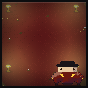
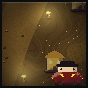
11o: návrh map – stavebnice umí koberce, mozaiky, koleje, památky a řady; mapy Zlaté říše předělané (město, mincovna, síň soch, pokladnice, trůnní sál)
Claude-Session: https://claude.ai/code/session_01C3g9eZa8rEMHcb6P6wfMxv

diff --git a/game.js b/game.js
@@ -562,7 +562,7 @@ const C8G=['#4e6e24','#5a7a2a','#668a30','#729838','#7ea640','#8ab24a'],C8W=['#1
   C8P=['#a8844a','#b49052','#c09c5c','#cca866'],C8Z=['#b8962a','#c8a630','#d8b638','#e6c644'],C8B=[['#3e5a1a','#f6e27a'],['#4a6a20','#ff9ab8']];
 // chapter IX the Golden Realm (11n): streets paved with gold, deep red carpets and walls, gold tiles; everything the sun looked at is gold
 const C9G=['#4a3614','#564018','#624a1c','#6e5420','#7a5e26','#86682c'],C9W=['#1a0808','#2a0e0c','#3a1410','#4a1a14'],C9T=['#6e5420','#7a5e26','#86682c','#927232'],
-  C9P=['#5a1410','#6a1814','#7a1e18','#88261e'],C9Z=['#9a7418','#b48a22','#cca230','#e2bc44'],C9B=[['#3a2a10','#f6d460'],['#4a3412','#ffffff']];
+  C9P=['#5a1410','#6a1814','#7a1e18','#88261e'],C9S=['#7a5a20','#866426','#92702c','#9e7a32'],C9R=['#5a1008','#8a1a10','#d8a830','#ffd040'],C9Z=['#9a7418','#b48a22','#cca230','#e2bc44'],C9B=[['#3a2a10','#f6d460'],['#4a3412','#ffffff']];
 const MAPS={
  hrbitov:{name:_t('Zapomněný hřbitov'),desc:_t('Ze hrobů lezou slizy a kostlivci. Přežij 4 minuty a sejmi Krále slizů.'),dur:240,size:900,seed:11,style:'gk',grade:'#ffa860',gradeA:.28,dark:.34,amb:'#120a1c',ambient:'firefly',patch:['#33443a','#25312b','#3b4a3c'],pebble:['#4a5550','#6f7a74'],flower:['#c869e0','#e8e4d4','#f6c744'],
   c1:'#2d3b35',c2:'#2a3731',specks:['#3a4d42','#243029','#33463b'],tuft:'#46634a',wall:'#1b1f24',wallHi:'#2b3038',
@@ -772,38 +772,53 @@ const MAPS={
   events:[{t:80,type:'ring',e:'firefly',n:26},{t:150,type:'ring',e:'beetle',n:18},{t:220,type:'ring',e:'sunfl',n:14},{t:300,type:'ring',e:'firefly',n:30},{t:380,type:'ring',e:'scarecrow',n:18}]},
  // ----- chapter IX: the Golden Realm (11n, chapter kit, a WALL chapter) – the city the sun looked at first; the Herald finally names Aurel -----
  predmesti:{name:_t('Pozlacené předměstí'),desc:_t('Ulice, na které slunce pohlédlo jako první. Všechno je ze zlata a nad domy pluje <b>zářící oko</b>. <b>Kdo v jeho světle zůstane, zezlátne a zkamení</b>, nepřátelé v něm zezlátnou taky: jsou odolnější, ale nechají víc zkušeností. Vydrž 5:30 a poraz Lichváře.'),dur:330,size:1000,seed:503,style:'kit',grade:'#ffd27a',gradeA:.16,dark:.15,amb:'#2a1a06',ambient:'mote',c1:'#6e5420',
-  speedMul:1,base:1,boss:'usurer',pools:0,kit:{ground:C9G,wall:C9W,path:C9P,accent:['#7a5a1c','#866424'],layout:'paths',paths:5,pathW:24,bits:C9B,spark:'#ffe27a',shadow:'#1a0808',
-   camp:{k:'c9_lamp',light:{r:44,col:'#ffe27a',a:.6}},props:[{k:'c9_house',n:16,tall:1,r:90},{k:['c9_coins','c9_vase'],n:70,r:20,light:{r:18,col:'#ffd27a',a:.3},lightEvery:6},{k:'c9_lamp',n:14,tall:1,r:80,light:{r:30,col:'#ffe27a',a:.5}}],
-   mech:[{id:'gaze',r:56,spd:24,full:2.4,from:12,dmg:2,pct:.07,col:'#ffd040',tip:_t('Oko slunce! Nezůstávej v jeho světle.')}]},
+  speedMul:1,base:1,boss:'usurer',pools:0,kit:{ground:C9G,wall:C9W,path:C9S,accent:['#7a5a1c','#866424'],layout:'paths',paths:4,pathW:36,pathTurn:.22,plaza:78,bits:C9B,spark:'#ffe27a',shadow:'#1a0808',
+   decor:[{d:'mosaic',r:66,pal:['#5a1008','#8a1a10','#d8a830','#ffd040'],rays:20},{d:'scatter',n:420,pal:['#ffd040','#e0b030','#c8962a'],sz:1}],
+   set:[{k:'c9_fountain',x:0,y:-108,light:{r:40,col:'#bfe8ff',a:.4}}],
+   rows:[{k:'c9_house',along:'path',step:52,gap:30,skip:120,r:24},{k:'c9_lamp',along:'path',step:78,gap:8,skip:140,r:14,light:{r:30,col:'#ffe27a',a:.55}},
+     {k:['c9_house','c9_house','c9_gtree','c9_stall'],fill:{step:62,jit:12,out:170},r:26}],
+   camp:{k:'c9_lamp',light:{r:44,col:'#ffe27a',a:.6}},props:[{k:['c9_coins','c9_vase','c9_crate'],n:60,r:16,light:{r:18,col:'#ffd27a',a:.3},lightEvery:6}],mech:[{id:'gaze',r:56,spd:24,full:2.4,from:12,dmg:2,pct:.07,col:'#ffd040',tip:_t('Oko slunce! Nezůstávej v jeho světle.')}]},
   spawns:[{e:'gilded',from:0,w:4},{e:'taxman',from:0,w:3},{e:'alchem',from:0,w:2},{e:'mimic',from:1,w:2},{e:'mummy',from:1,w:2},{e:'golem',from:3,w:1}],
   elites:[{t:60,e:'gilded'},{t:130,e:'taxman'},{t:200,e:'golem'},{t:270,e:'gilded'}],
   events:[{t:90,type:'ring',e:'taxman',n:20},{t:170,type:'ring',e:'gilded',n:16},{t:250,type:'ring',e:'mimic',n:18}]},
  mincovna:{name:_t('Mincovna'),desc:_t('Tady se razí zlato pro celou říši. <b>Obří lisy dupou v pruzích na takt</b>: takt předem se pruh rozsvítí, pak udeří. Bolí to tebe, ale nepřátele <b>rozdrtí</b>, tak je tam nalákej. Vydrž 5:30 a poraz Mincmistra.'),dur:330,size:1000,seed:509,style:'kit',grade:'#ffc86a',gradeA:.16,dark:.2,amb:'#2a1406',ambient:'ember',c1:'#5a4a3a',
-  speedMul:1,base:1,boss:'mintmaster',pools:0,kit:{ground:C9G,wall:C9W,path:C9P,tile:C9T,layout:'plaza',R:210,bits:C9B,spark:'#ffe27a',shadow:'#1a0808',
-   camp:{k:'c9_lamp',light:{r:44,col:'#ffe27a',a:.6}},props:[{k:'c9_press',n:10,at:'ring',ring:250,tall:1},{k:['c9_coins','c9_stack'],n:80,r:18,light:{r:16,col:'#ffd27a',a:.3},lightEvery:6},{k:'c9_column',n:12,tall:1,r:80,at:'edge'}],
-   mech:[{id:'press',every:2,from:20,n:2,w:28,dmg:2,pct:.08,edmg:140,col:'#ff9a3a',tip:_t('Lis! Uhni z rozsvíceného pruhu.')}]},
+  speedMul:1,base:1,boss:'mintmaster',pools:0,kit:{ground:C9G,wall:C9W,tile:C9T,tileS:24,layout:'plaza',R:460,bits:C9B,spark:'#ffe27a',shadow:'#1a0808',
+   decor:[{d:'rails',x1:-440,y1:-110,x2:440,y2:-110,pal:['#c8c8d0','#4a3018']},{d:'rails',x1:-440,y1:110,x2:440,y2:110,pal:['#c8c8d0','#4a3018']},{d:'rails',x1:-110,y1:-440,x2:-110,y2:440,pal:['#c8c8d0','#4a3018']},{d:'rails',x1:110,y1:-440,x2:110,y2:440,pal:['#c8c8d0','#4a3018']},
+     {d:'stripes',x:0,y:-300,w:200,h:60,pal:['#e8401a']},{d:'stripes',x:0,y:300,w:200,h:60,pal:['#e8401a']},{d:'mosaic',r:56,pal:['#3a2408','#8a6214','#d8a830','#ffd040'],rays:12},{d:'trim',pal:['#2a1a10','#ffd040']}],
+   rows:[{k:'c9_press',line:[-170,-150,170,-150],step:85,r:30},{k:'c9_press',line:[-170,150,170,150],step:85,r:30},{k:['c9_crate','c9_stack','c9_coins'],line:[-150,-70,-150,70],step:28,mirror:1,r:12},
+     {k:'c9_furnace',line:[-380,-380,-380,380],step:130,mirror:1,r:30,light:{r:40,col:'#ff8a3a',a:.6}},
+     {k:['c9_press','c9_crate','c9_stack','c9_crate','c9_coins'],fill:{step:74,jit:10,box:200},r:26}],
+   camp:{k:'c9_lamp',light:{r:44,col:'#ffe27a',a:.6}},props:[{k:['c9_coins','c9_stack'],n:40,r:16,light:{r:16,col:'#ffd27a',a:.3},lightEvery:6}],mech:[{id:'press',every:2,from:20,n:2,w:28,dmg:2,pct:.08,edmg:140,col:'#ff9a3a',tip:_t('Lis! Uhni z rozsvíceného pruhu.')}]},
   spawns:[{e:'gilded',from:0,w:3},{e:'mimic',from:0,w:3},{e:'taxman',from:0,w:3},{e:'alchem',from:1,w:2},{e:'golem',from:1,w:2},{e:'imp',from:2,w:1}],
   elites:[{t:60,e:'mimic'},{t:130,e:'gilded'},{t:200,e:'golem'},{t:270,e:'mimic'}],
   events:[{t:90,type:'ring',e:'mimic',n:16},{t:170,type:'ring',e:'taxman',n:22},{t:250,type:'ring',e:'gilded',n:18}]},
  sochy:{name:_t('Síň soch'),desc:_t('Obyvatelé města stojí ve dvoraně jako zlaté sochy. <b>Každé čtyři takty ty nejbližší ožijí</b> a kdo do nich udeří, probudí je hned. Rozbij je dřív, než vstanou. Vydrž 6 minut a poraz Zlatého rytíře.'),dur:360,size:1000,seed:521,style:'kit',grade:'#ffe27a',gradeA:.16,dark:.25,amb:'#1a0c06',ambient:'mote',c1:'#7a5e26',
-  speedMul:1,base:1,boss:'gknight',pools:0,kit:{ground:C9G,wall:C9W,path:C9P,tile:C9T,layout:'plaza',R:230,bits:C9B,spark:'#ffe27a',shadow:'#1a0808',
-   camp:{k:'c9_lamp',light:{r:44,col:'#ffe27a',a:.6}},props:[{k:'c9_column',n:16,at:'ring',ring:262,tall:1,light:{r:24,col:'#ffd27a',a:.4}},{k:['c9_coins','c9_vase'],n:60,r:20}],
-   mech:[{id:'statues',n:20,every:4,k:2,wake:220,col:'#ffd040',tip:_t('Sochy ožívají! Rozbij je, než vstanou.')}]},
+  speedMul:1,base:1,boss:'gknight',pools:0,kit:{ground:C9G,wall:C9W,tile:C9T,tileS:28,layout:'plaza',R:460,bits:C9B,spark:'#ffe27a',shadow:'#1a0808',
+   decor:[{d:'rug',x:0,y:0,w:52,h:900,pal:['#5a1008','#8a1a10','#d8a830','#ffd040']},{d:'rug',x:0,y:0,w:900,h:40,pal:['#5a1008','#8a1a10','#d8a830','#ffd040']},{d:'mosaic',r:60,pal:['#5a1008','#8a1a10','#d8a830','#ffd040'],rays:16},{d:'trim',pal:['#2a1a10','#ffd040']}],
+   rows:[{k:'c9_plinth',line:[-62,-420,-62,-60],step:50,mirror:1,r:14},{k:'c9_plinth',line:[-62,60,-62,420],step:50,mirror:1,r:14},
+     {k:'c9_candle',line:[-120,-400,-120,400],step:100,mirror:1,r:14,light:{r:34,col:'#ffe27a',a:.6}},
+     {k:'c9_column',fill:{step:96,jit:0,out:150},r:30,light:{r:22,col:'#ffd27a',a:.25},lightEvery:3}],
+   camp:{k:'c9_lamp',light:{r:44,col:'#ffe27a',a:.6}},props:[{k:['c9_vase','c9_coins','c9_crown','c9_plinth'],n:50,r:24}],mech:[{id:'statues',n:20,every:4,k:2,wake:220,col:'#ffd040',tip:_t('Sochy ožívají! Rozbij je, než vstanou.')}]},
   spawns:[{e:'gilded',from:0,w:4},{e:'alchem',from:0,w:3},{e:'taxman',from:0,w:2},{e:'skeleton',from:1,w:2},{e:'mimic',from:2,w:1},{e:'golem',from:3,w:1}],
   elites:[{t:60,e:'gilded'},{t:130,e:'alchem'},{t:200,e:'golem'},{t:270,e:'gilded'},{t:330,e:'mimic'}],
   events:[{t:90,type:'ring',e:'gilded',n:18},{t:170,type:'ring',e:'alchem',n:12},{t:260,type:'ring',e:'taxman',n:22},{t:320,type:'ring',e:'gilded',n:22}]},
  pokladnice:{name:_t('Pokladnice'),desc:_t('Hromady zlata až ke stropu. <b>Sebraný poklad ti přidá sílu do konce běhu</b>, ale <b>probudí mimiky</b> a nad pokladem spí drak, který je s každou ztrátou vzteklejší. Kolik uneseš? Vydrž 6 minut a poraz Draka Zlatohlava.'),dur:360,size:1000,seed:547,style:'kit',grade:'#ffd27a',gradeA:.18,dark:.3,amb:'#1a0a04',ambient:'mote',c1:'#86682c',
   speedMul:1,base:1,boss:'dragon',pools:0,kit:{ground:C9G,wall:C9W,accent:['#8a6a24','#96742c'],layout:'open',bits:C9B,spark:'#ffe27a',shadow:'#1a0808',
-   zone:{pal:C9Z,thr:.55,cells:140},
-   camp:{k:'c9_lamp',light:{r:44,col:'#ffe27a',a:.6}},props:[{k:['c9_coins','c9_stack','c9_vase'],n:110,r:16,light:{r:16,col:'#ffd27a',a:.3},lightEvery:5},{k:'c9_chest',n:12,r:90,tall:1}],
-   mech:[{id:'greed',n:5,mim:3,re:25,buff:.05,max:6,col:'#ffd040',tip:_t('Poklad! Sílí tě, ale budí mimiky.')}]},
+   zone:{pal:C9Z,thr:.5,cells:150},decor:[{d:'scatter',n:900,pal:['#ffd040','#e0b030','#e8401a','#5ab8e8'],sz:1}],
+   set:[{k:'c9_hoard',x:0,y:-260,light:{r:50,col:'#ffd040',a:.5}},{k:'c9_hoard',x:-240,y:170,light:{r:50,col:'#ffd040',a:.5}},{k:'c9_hoard',x:240,y:150,light:{r:50,col:'#ffd040',a:.5}}],
+   rows:[{k:['c9_chest','c9_crown','c9_gems'],arc:{x:0,y:-260,r:56,n:9},r:10},{k:['c9_chest','c9_gems'],arc:{x:-240,y:170,r:52,n:7},r:10},{k:['c9_chest','c9_crown'],arc:{x:240,y:150,r:52,n:7},r:10},
+     {k:['c9_hoard','c9_coins','c9_stack','c9_gems'],fill:{step:54,jit:16,out:110},inzone:1,r:20},{k:['c9_chest','c9_vase','c9_stack','c9_crown'],fill:{step:80,jit:20,out:120,p:.6},r:30}],
+   camp:{k:'c9_lamp',light:{r:44,col:'#ffe27a',a:.6}},props:[{k:['c9_coins','c9_stack','c9_vase','c9_gems'],n:80,r:16,light:{r:16,col:'#ffd27a',a:.3},lightEvery:5}],mech:[{id:'greed',n:5,mim:3,re:25,buff:.05,max:6,col:'#ffd040',tip:_t('Poklad! Sílí tě, ale budí mimiky.')}]},
   spawns:[{e:'mimic',from:0,w:4},{e:'taxman',from:0,w:3},{e:'gilded',from:0,w:3},{e:'alchem',from:1,w:2},{e:'scorp',from:1,w:2},{e:'golem',from:3,w:1}],
   elites:[{t:60,e:'mimic'},{t:130,e:'taxman'},{t:200,e:'golem'},{t:270,e:'mimic'},{t:330,e:'gilded'}],
   events:[{t:90,type:'ring',e:'mimic',n:18},{t:170,type:'ring',e:'taxman',n:24},{t:260,type:'ring',e:'gilded',n:20},{t:320,type:'ring',e:'mimic',n:24}]},
  dvur:{name:_t('Zlatý dvůr'),desc:_t('Finále kapitoly. Ve zlatém trůnním sále čeká Herold, služebník toho, kdo se dívá ze slunce. Arénou pluje <b>oko slunce</b> a <b>sochy dvořanů ožívají</b>. Herold ti konečně řekne, komu jsi celou dobu nosil střepy. Vydrž 7 minut.'),dur:420,size:940,seed:563,style:'kit',grade:'#ffd27a',gradeA:.2,dark:.2,amb:'#1a0a04',ambient:'mote',c1:'#8a6a24',finale:1,
   speedMul:1,base:1,boss:'herald',pools:0,kit:{ground:C9G,wall:C9W,tile:C9T,layout:'arena',R:300,bits:C9B,spark:'#ffe27a',shadow:'#1a0808',
-   props:[{k:'c9_column',n:14,at:'ring',ring:322,tall:1,light:{r:28,col:'#ffd27a',a:.5}},{k:['c9_coins','c9_vase','c9_stack'],n:50,at:'edge',r:24}],
-   mech:[{id:'gaze',r:52,spd:22,full:2.6,from:40,dmg:2,pct:.07,col:'#ffd040',tip:_t('Oko slunce! Nezůstávej v jeho světle.')},{id:'statues',n:12,every:5,k:2,wake:200,col:'#ffd040',tip:_t('Sochy ožívají! Rozbij je, než vstanou.')},{id:'strike',from:99999,col:'#ffd27a'}]},
+   decor:[{d:'mosaic',r:120,pal:['#5a1008','#8a1a10','#d8a830','#ffd040'],rays:24},{d:'rug',x:0,y:-212,w:46,h:170,pal:['#5a1008','#8a1a10','#d8a830','#ffd040']},{d:'rug',x:0,y:212,w:46,h:170,pal:['#5a1008','#8a1a10','#d8a830','#ffd040']},{d:'trim',pal:['#2a1a10','#ffd040']}],
+   set:[{k:'c9_throne',x:0,y:-282,light:{r:56,col:'#ffe27a',a:.6}}],
+   rows:[{k:'c9_banner',arc:{r:286,n:14,a0:-1.2,a1:4.34},r:20},{k:'c9_candle',arc:{r:250,n:10},r:16,light:{r:34,col:'#ffe27a',a:.6}},
+     {k:['c9_column','c9_column','c9_plinth','c9_gtree'],fill:{step:84,jit:8,out:340},r:30}],
+   props:[{k:['c9_coins','c9_vase','c9_stack'],n:40,at:'edge',r:24}],mech:[{id:'gaze',r:52,spd:22,full:2.6,from:40,dmg:2,pct:.07,col:'#ffd040',tip:_t('Oko slunce! Nezůstávej v jeho světle.')},{id:'statues',n:12,every:5,k:2,wake:200,col:'#ffd040',tip:_t('Sochy ožívají! Rozbij je, než vstanou.')},{id:'strike',from:99999,col:'#ffd27a'}]},
   spawns:[{e:'gilded',from:0,w:4},{e:'taxman',from:0,w:3},{e:'alchem',from:0,w:2},{e:'mimic',from:1,w:2},{e:'starimp',from:1,w:2},{e:'golem',from:3,w:1}],
   elites:[{t:50,e:'gilded'},{t:110,e:'mimic'},{t:170,e:'alchem'},{t:230,e:'golem'},{t:290,e:'gilded'},{t:350,e:'mimic'},{t:400,e:'golem'}],
   events:[{t:80,type:'ring',e:'taxman',n:24},{t:150,type:'ring',e:'gilded',n:18},{t:220,type:'ring',e:'alchem',n:14},{t:300,type:'ring',e:'mimic',n:22},{t:380,type:'ring',e:'gilded',n:24}]},
@@ -3352,7 +3367,7 @@ function fitApp(){try{const sa=window.navigator.standalone===true||matchMedia('(
   let h=Math.max(window.innerHeight||0,document.documentElement.clientHeight||0);
   if(sa&&(/iPhone|iPad|iPod/.test(navigator.userAgent||'')||(navigator.platform==='MacIntel'&&navigator.maxTouchPoints>1))){const land=(window.innerWidth||0)>(window.innerHeight||0);h=Math.max(h,land?Math.min(screen.width,screen.height):Math.max(screen.width,screen.height));}
   document.documentElement.style.setProperty('--appH',h+'px');document.documentElement.style.setProperty('--kw',Math.min(360,Math.floor(((window.innerWidth||360)-16)/2)*2)+'px');fitApp.info={sa,h,ih:window.innerHeight,ch:document.documentElement.clientHeight,sh:screen.height,sw:screen.width};}catch(_){}}
-const GAME_VER='2026-11-11n';
+const GAME_VER='2026-11-11o';
 fitApp();addEventListener('resize',()=>{fitApp();resize();try{if(state==='menu')fitMenuCur();}catch(_){}});addEventListener('orientationchange',()=>setTimeout(()=>{fitApp();resize();},250));
 
 /* ============ state ============ */
@@ -4807,7 +4822,7 @@ function songKit(o){const m=o.motif,N=null,P=o.prog||KIT_PROG[o.scale]||KIT_PROG
 function buildKit(id){const def=MAPS[id],K=def.kit,size=def.size,rng=mulberry32(def.seed),C=size/2,H=c=>c.map(hex2rgb);
   const BASE=H(K.ground),PATH=K.path?H(K.path):null,ACC=K.accent?H(K.accent):null,TILE=K.tile?H(K.tile):null,ZONE=K.zone?H(K.zone.pal):null,
     WL=H(K.wall||['#14141c','#1c1c26','#262630','#30303a']),SPK=K.spark?hex2rgb(K.spark):null,TB=12*Z,lay=K.layout||'paths',R=K.R||(lay==='arena'?300:150);
-  let pm=null;if(PATH)pm=pathMask(size,mg=>{const n=K.paths||4;for(let i=0;i<n;i++)curvePath(mg,wander(rng,C,C,i/n*6.283+rng()*.6,30,26,.7,size),K.pathW||24);mg.beginPath();mg.arc(C,C,K.plaza||56,0,6.283);mg.fill();});
+  let pm=null;const PP=[];if(PATH)pm=pathMask(size,mg=>{const n=K.paths||4;for(let i=0;i<n;i++){const pts=wander(rng,C,C,i/n*6.283+rng()*.6,30,26,K.pathTurn||.7,size);PP.push(pts);curvePath(mg,pts,K.pathW||24);}mg.beginPath();mg.arc(C,C,K.plaza||56,0,6.283);mg.fill();});
   const tiled=(x,y)=>TILE&&(lay==='plaza'?Math.abs(x-C)<R&&Math.abs(y-C)<R:lay==='arena'?Math.hypot(x-C,y-C)<R:false);
   let zone=null;if(ZONE){const N=noiseField(size,size,K.zone.cells||120,rng),th=K.zone.thr||.62;zone=new Uint8Array(size*size);
     for(let y=0;y<size;y++)for(let x=0;x<size;x++){const i=y*size+x;if(N[i]>th&&Math.hypot(x-C,y-C)>90&&!(pm&&pm(x,y)>.4)&&!tiled(x,y))zone[i]=1;}}
@@ -4828,6 +4843,19 @@ function buildKit(id){const def=MAPS[id],K=def.kit,size=def.size,rng=mulberry32(
   const shadowAt=(x,y,rx,ry,a)=>{g.globalAlpha=a;g.fillStyle=K.shadow||'#0a0814';g.beginPath();g.ellipse(x*Z,y*Z,rx*Z,ry*Z,0,0,6.283);g.fill();g.globalAlpha=1;};
   const put=(k,x,y,tall,sh)=>{const s=typeof k==='string'?kitSprite(k):k;if(sh!==0)shadowAt(x+s.w*.1,y-.5,s.w*.46,Math.max(1.4,s.h*.08),sh||.3);props.push({isProp:true,x,y,spr:s,tall:!!tall});return s;};
   const lit=(L,x,y)=>{if(L)lights.push({x,y:y-(L.dy||6),r:L.r||40,col:L.col||'#ffd27a',a:L.a||.7});};
+  // 11o: decor painted into the ground (rugs, mosaics, rails, trims, scatter), set pieces at exact spots, rows of props along paths/lines/arcs
+  for(const D of K.decor||[])kitDecor(g,D,{C,R,lay,size,pm,inZ,rng,K});
+  for(const S of K.set||[]){const x=C+(S.x||0),y=C+(S.y||0);put(S.k,x,y,S.tall!==false,S.sh);lit(S.light,x,y);}
+  for(const W of K.rows||[]){const ks=[].concat(W.k),spots=[];
+    if(W.along==='path'){for(const pts of PP){let acc=0,last=null;for(let i=1;i<pts.length;i++){const [x0,y0]=pts[i-1],[x1,y1]=pts[i],L=Math.hypot(x1-x0,y1-y0)||1,nx=-(y1-y0)/L,ny=(x1-x0)/L;
+        for(let s=0;s<L;s+=4){acc+=4;const px=x0+(x1-x0)*s/L,py=y0+(y1-y0)*s/L;if(Math.hypot(px-C,py-C)<(W.skip||100))continue;if(last!==null&&acc-last<(W.step||60))continue;last=acc;
+          const off=(K.pathW||24)/2+(W.gap||20);for(const sd of W.side===1?[1]:W.side===-1?[-1]:[1,-1])spots.push([px+nx*off*sd,py+ny*off*sd]);}}}}
+    else if(W.line){const [x1,y1,x2,y2]=W.line,L=Math.hypot(x2-x1,y2-y1),n=Math.max(1,Math.floor(L/(W.step||50)));for(let i=0;i<=n;i++){const x=C+x1+(x2-x1)*i/n,y=C+y1+(y2-y1)*i/n;spots.push([x,y]);if(W.mirror)spots.push([2*C-x,y]);}}
+    else if(W.arc){const A=W.arc,n=A.n||8;for(let i=0;i<n;i++){const a=(A.a0||0)+((A.a1==null?6.283:A.a1)-(A.a0||0))*(n>1&&A.a1!=null?i/(n-1):i/n);spots.push([C+(A.x||0)+Math.cos(a)*A.r,C+(A.y||0)+Math.sin(a)*A.r*(A.sq||1)]);}}
+    else if(W.fill){const F=W.fill,st=F.step||70,j=F.jit||16;for(let y=st/2;y<size;y+=st)for(let x=st/2;x<size;x+=st){const px=x+(rng()-.5)*2*j,py=y+(rng()-.5)*2*j,d=Math.hypot(px-C,py-C);
+        if(d<(F.out||0)||(F.in&&d>F.in))continue;if(F.box&&Math.abs(px-C)<F.box&&Math.abs(py-C)<F.box)continue;if(F.p&&rng()>F.p)continue;spots.push([px,py]);}}
+    const pk=W.fill?()=>ks[(rng()*ks.length)|0]:i=>ks[i%ks.length];
+    spots.forEach(([x,y],i)=>{if(x<30||y<30||x>size-30||y>size-30)return;if(W.inzone?!inZ(x,y):inZ(x,y))return;if((W.along==='path'||W.fill)&&pm&&pm(x,y)>.3)return;if(!free(x,y,W.r||18))return;put(pk(i),x,y,W.tall!==false,W.sh);if(W.light&&(!W.lightEvery||i%W.lightEvery===0))lit(W.light,x,y);});}
   // the camp around the start
   if(K.camp)for(const [dx,dy] of [[-34,-30],[34,-30],[-34,30],[34,30]]){put(K.camp.k,C+dx,C+dy,K.camp.tall!==false,.3);lit(K.camp.light,C+dx,C+dy);}
   // props: at = any | ring (circle of radius ring) | edge (near the wall) | zone (inside the special ground) | path (on the paths)
@@ -4839,6 +4867,26 @@ function buildKit(id){const def=MAPS[id],K=def.kit,size=def.size,rng=mulberry32(
       put(ks[(rng()*ks.length)|0],x,y,!!P.tall,P.sh);if(P.light&&(!P.lightEvery||k%P.lightEvery===0))lit(P.light,x,y);k++;}}
   return{canvas:G.c,pools:[],def,props,lights:lights.slice(0,64),zone};}
 MAP_BUILD.kit=id=>buildKit(id);
+// 11o: ground decor for the chapter kit (painted once into the map canvas, free at run time). Coordinates are relative to the map centre.
+// rug {x,y,w,h,pal:[edge,fill,motif]} | mosaic {x,y,r,pal:[4],rays} | rails {x1,y1,x2,y2,pal:[rail,tie]} | trim {pal:[a,b]} (edge of plaza/arena)
+// | scatter {n,pal,sz} (glints outside paths) | stripes {x,y,w,h,pal:[a,b],step} (hazard / work lanes)
+// kit.rows: {k, along:'path',step,gap,skip} | {k, line:[x1,y1,x2,y2],step,mirror} | {k, arc:{x,y,r,n,a0,a1}} | {k, fill:{step,jit,out,in,box,p}, inzone} (grid fill = districts)
+// kit.set: [{k,x,y,light}] landmarks at exact spots. Order: decor → set → rows → camp → random props (later ones avoid earlier ones).
+function kitDecor(g,D,o){const {C,R,lay,size,pm,inZ,rng}=o,P=D.pal||['#5a1410','#7a1e18','#d8b444','#e2ba48'],fr=(x,y,w,h,c)=>{g.fillStyle=c;g.fillRect(Math.round(x*Z),Math.round(y*Z),Math.max(1,Math.round(w*Z)),Math.max(1,Math.round(h*Z)));};
+  if(D.d==='rug'){const x=C+(D.x||0)-D.w/2,y=C+(D.y||0)-D.h/2;fr(x,y,D.w,D.h,P[0]);fr(x+2,y+2,D.w-4,D.h-4,P[1]);
+    g.fillStyle=P[2];for(let i=0;i<D.w;i+=1/Z){fr(x+i,y+4,.5,.5,P[2]);fr(x+i,y+D.h-4.5,.5,.5,P[2]);}for(let j=0;j<D.h;j+=1/Z){fr(x+4,y+j,.5,.5,P[2]);fr(x+D.w-4.5,y+j,.5,.5,P[2]);}
+    const st=D.step||14;for(let yy=y+10;yy<y+D.h-10;yy+=st)for(let xx=x+10;xx<x+D.w-10;xx+=st){fr(xx,yy-1,1,1,P[2]);fr(xx-1,yy,3,1,P[2]);fr(xx,yy+1,1,1,P[2]);}}
+  else if(D.d==='mosaic'){const cx=C+(D.x||0),cy=C+(D.y||0),r=D.r||60,n=D.rays||16;g.save();g.translate(cx*Z,cy*Z);g.scale(Z,Z);
+    const ring=(rr,w,c)=>{g.strokeStyle=c;g.lineWidth=w;g.beginPath();g.arc(0,0,rr,0,6.283);g.stroke();};
+    g.globalAlpha=.85;ring(r,3,P[0]);ring(r-5,1,P[2]);for(let i=0;i<n;i++){const a=i/n*6.283;g.fillStyle=i%2?P[1]:P[2];g.beginPath();g.moveTo(Math.cos(a-.08)*r*.38,Math.sin(a-.08)*r*.38);g.lineTo(Math.cos(a)*(r-7),Math.sin(a)*(r-7));g.lineTo(Math.cos(a+.08)*r*.38,Math.sin(a+.08)*r*.38);g.fill();}
+    g.fillStyle=P[3]||P[2];g.beginPath();g.arc(0,0,r*.34,0,6.283);g.fill();ring(r*.34,2,P[0]);g.fillStyle=P[0];g.beginPath();g.arc(0,0,r*.14,0,6.283);g.fill();g.globalAlpha=1;g.restore();}
+  else if(D.d==='rails'){const x1=C+D.x1,y1=C+D.y1,x2=C+D.x2,y2=C+D.y2,L=Math.hypot(x2-x1,y2-y1),ux=(x2-x1)/L,uy=(y2-y1)/L,nx=-uy,ny=ux;
+    for(let s=0;s<L;s+=6){const x=x1+ux*s,y=y1+uy*s;for(let k=-5;k<=5;k+=.5)fr(x+nx*k,y+ny*k,1.2,1.2,P[1]);}
+    for(let s=0;s<L;s+=.5){const x=x1+ux*s,y=y1+uy*s;fr(x+nx*3.5,y+ny*3.5,.8,.8,P[0]);fr(x-nx*3.5,y-ny*3.5,.8,.8,P[0]);}}
+  else if(D.d==='stripes'){const x=C+(D.x||0)-D.w/2,y=C+(D.y||0)-D.h/2,st=D.step||8;for(let yy=0;yy<D.h;yy+=.5)for(let xx=0;xx<D.w;xx+=.5)if(((xx+yy)/st|0)%2===0&&(xx<3||yy<3||xx>D.w-3||yy>D.h-3))fr(x+xx,y+yy,.5,.5,P[0]);}
+  else if(D.d==='trim'){if(lay==='plaza'){for(const s of [-1,1]){for(let t=-R;t<=R;t+=.5){fr(C+t,C+s*R,.5,1,P[0]);fr(C+s*R,C+t,1,.5,P[0]);if(((t+R)|0)%10<1){fr(C+t,C+s*(R-4),1.5,1.5,P[1]);fr(C+s*(R-4),C+t,1.5,1.5,P[1]);}}}}
+    else{for(let j=0;j<720;j++){const a=j/720*6.283;fr(C+Math.cos(a)*(R-5),C+Math.sin(a)*(R-5),.6,.6,P[0]);if(j%24===0)fr(C+Math.cos(a)*(R-10)-1,C+Math.sin(a)*(R-10)-1,2,2,P[1]);}}}
+  else if(D.d==='scatter'){for(let i=0;i<(D.n||200);i++){const x=20+rng()*(size-40),y=20+rng()*(size-40);if(inZ(x,y)||(pm&&pm(x,y)>.3))continue;const c=P[(rng()*P.length)|0];fr(x,y,D.sz||1,D.sz||1,c);if(rng()<.3)fr(x+1,y-1,.5,.5,'#ffffff');}}}
 
 // ----- map mechanics: pick one (or none) per map in kit.mech; every one is host-simulated and synced to the co-op guest -----
 const kitM=()=>(run&&run.map&&run.map.kit&&run.map.kit.mech)||[];
@@ -5260,6 +5308,17 @@ Object.assign(KIT_PROPS,{
  c9_press:{big:1,mirror:false,rows:['kkkkkkk','.k.k.k.','.ksssk.','.ksssk.','..sss..','..sss..','yyyyyyy','yyYYYyy','bbbbbbb'],pal:{k:'#3a2a20',s:'#9a9aa8',y:'#c8962a',Y:'#ffe27a',b:'#2a1a10'}},
  c9_column:{big:1,mirror:false,rows:['yyyyy','.rrr.','.ryr.','.ryr.','.ryr.','.ryr.','.ryr.','.ryr.','yyyyy','bbbbb'],pal:{y:'#d8b444',r:'#7a1e18',b:'#3a1410'}},
  c9_chest:{mirror:false,rows:['.nnnnn.','nnnnnnn','yyyyyyy','nnnynnn','nbbybbn','nbbbbbn'],pal:{n:'#8a5a2a',y:'#e0b030',b:'#5a3a1a'}},
+ c9_fountain:{big:1,mirror:false,rows:['.....w.....','....wbw....','.....w.....','....yyy....','...yyyyy...','..ywwwwwy..','.ybbwbbwby.','yyyyyyyyyyy','.yaaaaaaay.','..yyyyyyy..'],pal:{w:'#e8f8ff',b:'#5ab8e8',y:'#d8a830',a:'#8a6214'}},
+ c9_stall:{big:1,mirror:false,rows:['rryyrryyr','rryyrryyr','.k.....k.','.k.....k.','.k.....k.','yyygyycyy','aaaaaaaaa','.a.....a.'],pal:{r:'#a8201a',y:'#ffd040',k:'#5a3a14',g:'#5aa83a',c:'#e8401a',a:'#7a5a2a'}},
+ c9_gtree:{big:1,mirror:false,rows:['...yYy...','..yYyYy..','.yYyyyYy.','yYyYyYyYy','.yyYyyYy.','..yyYyy..','....a....','....a....','...aaa...'],pal:{y:'#d8a830',Y:'#ffe27a',a:'#8a6214'}},
+ c9_furnace:{big:1,mirror:false,rows:['..aaaaa..','.abbbbba.','abbbbbbba','abboyobba','abooyooba','abbooobba','aaaaaaaaa','bbbbbbbbb'],pal:{a:'#5a4a3a',b:'#3a2a20',o:'#ff6a1a',y:'#ffd040'}},
+ c9_crate:{mirror:false,rows:['aaaaa','abbba','ababa','abbba','aaaaa'],pal:{a:'#8a6a3a',b:'#5a3e20'}},
+ c9_plinth:{mirror:false,rows:['.yyy.','.aaa.','.aaa.','yyyyy','bbbbb'],pal:{y:'#d8b444',a:'#a8884a',b:'#5a3a14'}},
+ c9_candle:{mirror:false,rows:['y.y.y','o.o.o','k.k.k','kkkkk','..k..','..k..','..k..','.kkk.'],pal:{y:'#fff2c8',o:'#ffd040',k:'#c8962a'}},
+ c9_gems:{mirror:false,rows:['..r..','.rbr.','rgbgr','.ggg.'],pal:{r:'#e8401a',b:'#5ab8e8',g:'#5aa83a'}},
+ c9_crown:{mirror:false,rows:['y.y.y','yryry','yyyyy','.yyy.'],pal:{y:'#ffd040',r:'#e8401a'}},
+ c9_throne:{big:1,mirror:false,rows:['....yyy....','...yyryy...','..yrrrrry..','..yrrrrry..','..yrrrrry..','.yyyyyyyyy.','.yaaaaaaay.','.ya.....ay.','yyyyyyyyyyy','bbbbbbbbbbb'],pal:{y:'#e0b030',r:'#8a1a10',a:'#5a1008',b:'#3a1410'}},
+ c9_banner:{big:1,mirror:false,rows:['kkkkk','.rrr.','.ryr.','.rrr.','.ryr.','.rrr.','.r.r.','..k..','..k..','..k..','.kkk.'],pal:{k:'#8a6214',r:'#8a1a10',y:'#ffd040'}},
  c9_hoard:{big:1,mirror:false,rows:['...y...','..yYy..','.yyyyy.','yyYyyYy','yyyyyyy','.yyyyy.'],pal:{y:'#d8a830',Y:'#ffe27a'}}});
 // gilding: the sun's gaze turns a foe to gold – tougher (+50 % health) but worth more (double XP, a coin now and then)
 const gildSprite=id=>{SPR.gild=SPR.gild||{};if(SPR.gild[id])return SPR.gild[id];const D=ENEMY_DEFS[id],R=['#4a3008','#8a6214','#c8962a','#ffd860'],pal={};
@@ -9532,6 +9591,12 @@ function drawMateArrow(g,ox,oy){const m=coMate();if(!m)return;const cx=m.x+ox,cy
 /* ============ news (what's new popup), install to home screen, result sharing ============ */
 // newest first; v must grow (date + letter). Shown once per new version, all of it under menu "Novinky".
 const NEWS=[
+ {v:'2026-11-11o',d:'11. 11. 2026',t:_t('Zlatá říše dostala tvář'),hl:[
+  {ic:'map:predmesti',t:_t('Předměstí jako město'),d:_t('Dlážděné ulice lemované domy, lucerny, trhy a fontána na náměstí se slunečnou mozaikou.')},
+  {ic:'map:mincovna',t:_t('Mincovna jako dílna'),d:_t('Koleje vozíků, výstražné pruhy, řady lisů, beden a pece podél zdí.')},
+  {ic:'map:sochy',t:_t('Síň soch'),d:_t('Rudé koberce do kříže, uličky podstavců se svícemi a les sloupů.')},
+  {ic:'map:dvur',t:_t('Pokladnice a Zlatý dvůr'),d:_t('Hromady pokladu s truhlami a korunami, trůnní sál s prapory, kruhem svící a trůnem Herolda.')}],
+  items:[_t('Mapy nových kapitol se teď skládají z ulic, řad a památek, ne z náhodně rozházených věcí.')]},
  {v:'2026-11-11n',d:'11. 11. 2026',t:_t('Kapitola IX: Zlatá říše'),hl:[
   {ic:'map:predmesti',t:_t('Kapitola IX: Zlatá říše'),d:_t('Město, na které slunce pohlédlo jako první. Nad <b>Předměstím</b> loví <b>oko slunce</b>, v <b>Mincovně</b> dupou lisy, v <b>Síni soch</b> ožívají dvořané a v <b>Pokladnici</b> si můžeš vzít poklad, když se nebojíš mimiků a draka. Je to <b>zeď</b>, počítej s grindem.')},
   {ic:'boss:herald',t:_t('Herold slunce'),d:_t('Finále na Zlatém dvoře. V půlce souboje ti Herold konečně řekne, <b>komu jsi celou dobu nosil střepy</b>.')},

diff --git a/lang-en.js b/lang-en.js
@@ -1,6 +1,15 @@
 /* English translation. Keys are the exact Czech texts from index.html (_t('…') calls and static HTML).
    When you add or change a Czech text, add/update its line here. Check: node tests/tools/i18n.js */
 window.KRYPTA_EN={
+"Zlatá říše dostala tvář":"The Golden Realm got a face",
+"Předměstí jako město":"Outskirts as a real town",
+"Dlážděné ulice lemované domy, lucerny, trhy a fontána na náměstí se slunečnou mozaikou.":"Cobbled streets lined with houses, lanterns, market stalls and a fountain on a square with a sun mosaic.",
+"Mincovna jako dílna":"The Mint as a workshop",
+"Koleje vozíků, výstražné pruhy, řady lisů, beden a pece podél zdí.":"Cart rails, hazard stripes, rows of presses and crates, furnaces along the walls.",
+"Rudé koberce do kříže, uličky podstavců se svícemi a les sloupů.":"Red carpets in a cross, aisles of plinths with candles and a forest of columns.",
+"Pokladnice a Zlatý dvůr":"Treasury and Golden Court",
+"Hromady pokladu s truhlami a korunami, trůnní sál s prapory, kruhem svící a trůnem Herolda.":"Treasure hoards with chests and crowns, a throne hall with banners, a ring of candles and the Herald's throne.",
+"Mapy nových kapitol se teď skládají z ulic, řad a památek, ne z náhodně rozházených věcí.":"Maps of new chapters are now built from streets, rows and landmarks instead of randomly scattered props.",
 "Kapitoly jako schody":"Chapters as steps",
 "Každá kapitola je schod":"Every chapter is a step",
 "Další kapitola teď vždycky začíná těžší, než končila ta předchozí. <b>Hlubiny jsou zeď</b>: bez Nočních můr v Písečné říši je neprojdeš. Přitvrdila i Ledová říše a Pobřeží.":"Each next chapter now always starts harder than the previous one ended. <b>The Depths are a wall</b>: you won't get through without Nightmares in the Sand Realm. The Ice Realm and the Coast got tougher too.",

diff --git a/tests/tools/mapfull.js b/tests/tools/mapfull.js
@@ -1,0 +1,11 @@
+// 11o: celá mapa stavebnice jako jeden obrázek (zem + rekvizity + světla), na kontrolu rozvržení: node mapfull.js mapa,mapa [prefix]
+const {chromium}=require('playwright');const maps=(process.argv[2]||'predmesti').split(','),pre=process.argv[3]||'/tmp/full';
+(async()=>{const b=await chromium.launch();const p=await (await b.newContext({viewport:{width:600,height:600}})).newPage();const errs=[];p.on('pageerror',e=>errs.push(e.message));
+ await p.goto('file://'+__dirname+'/off.html');await p.waitForTimeout(600);
+ for(const m of maps){const url=await p.evaluate(m=>{const K=window.__krypta;K.save.sound=false;K.save.music=false;K.save.tut=1;K.startRun('knight',m);const R=K.run,B=R.built,sz=R.map.size;
+   const c=document.createElement('canvas');c.width=c.height=sz;const g=c.getContext('2d');g.imageSmoothingEnabled=false;g.drawImage(B.canvas,0,0,sz,sz);
+   for(const L of B.lights||[]){const gr=g.createRadialGradient(L.x,L.y,0,L.x,L.y,L.r);gr.addColorStop(0,L.col+'55');gr.addColorStop(1,L.col+'00');g.fillStyle=gr;g.fillRect(L.x-L.r,L.y-L.r,L.r*2,L.r*2);}
+   const P=(B.props||[]).slice().sort((a,b)=>a.y-b.y);for(const q of P){const s=q.spr;g.drawImage(s.c,Math.round(q.x-s.w/2),Math.round(q.y-s.h),s.w,s.h);}
+   return c.toDataURL();},m);
+  require('fs').writeFileSync(pre+'_'+m+'.png',Buffer.from(url.split(',')[1],'base64'));}
+ console.log('ok',errs.slice(0,3));await b.close();})();

diff --git a/index.html b/index.html
@@ -13,7 +13,7 @@
 <meta name="apple-mobile-web-app-status-bar-style" content="black-translucent">
 <title>Pixel Krypta</title>
 <!-- 09y: fonts are served from the game itself (no Google Fonts → no visitor IP sent to Google; licences in licenses/) -->
-<link rel="stylesheet" href="krypta.css?v=2026-11-11n">
+<link rel="stylesheet" href="krypta.css?v=2026-11-11o">
 </head>
 <body>
 <div id="splash"><img src="icon-192.png" alt=""><b>PIXEL KRYPTA</b><i></i></div>
@@ -330,9 +330,9 @@ window.KRYPTA_ONLINE={url:'https://mpxfppuigwvwlfhsnbgr.supabase.co',key:'sb_pub
 <script>/* 09z7: English texts are downloaded only for English players (same language rule as LANG in game.js) */
 (function(){var l=null;try{l=localStorage.getItem('pixel-krypta-lang');}catch(e){}
 if(l!=='cs'&&l!=='en')l=/^(cs|sk)\b/i.test(String((navigator.languages&&navigator.languages[0])||navigator.language||''))?'cs':'en';
-window.KRYPTA_LANG=l;if(l==='en')document.write('<script src="lang-en.js?v=2026-11-11n"><\/script>');})();
+window.KRYPTA_LANG=l;if(l==='en')document.write('<script src="lang-en.js?v=2026-11-11o"><\/script>');})();
 </script>
-<script src="game.js?v=2026-11-11n"></script>
+<script src="game.js?v=2026-11-11o"></script>
 
 <div id="kHelp" hidden><div class="khcard" data-k="slab" data-m="parch"><div id="kHelpTxt"></div></div></div>
 </body>

diff --git a/.claude/skills/nova-kapitola/SKILL.md b/.claude/skills/nova-kapitola/SKILL.md
@@ -31,6 +31,13 @@ Komunikuj česky. Nejdřív `git fetch` + `git pull --rebase` a přečti `KAMPAN
   `layout`: `paths` (cesty od středu), `plaza` (dlážděný čtverec ±R), `arena` (kruhová aréna R, hodí se na finále), `open`.
   `props`: `{k:'klíč'|['a','b'], n, tall, r (rozestup), sh (stín), at:'any'|'ring'|'edge'|'zone'|'path', ring, sq, light:{r,col,a,dy}, lightEvery}`. `camp`: 4 rekvizity kolem startu.
   `zone`: šumová oblast (`pal`, `thr`, `cells`) – voda, bažina, láva, krystaly… zpomaluje jen s mechanikou `slow`.
+- **Návrh mapy (11o, uživatel: „design mapy je nuda“)** – náhodně rozházené `props` nestačí. Každá mapa má mít **místo s příběhem**: osu, střed, čtvrti, památky. Nástroje (pořadí kreslení: `decor` → `set` → `rows` → `camp` → náhodné `props`):
+  - `decor:[…]` = kresba do země (`kitDecor`): `rug {x,y,w,h,pal:[okraj,výplň,vzor],step}` (koberec/cesta), `mosaic {x,y,r,pal[4],rays}` (rozeta ve středu), `rails {x1,y1,x2,y2,pal}` (koleje), `stripes {x,y,w,h,pal,step}` (výstražné pruhy), `trim {pal}` (lem dlažby nebo arény), `scatter {n,pal,sz}` (drť, mince).
+  - `set:[{k,x,y,light,tall,sh}]` = památky na přesném místě (souřadnice od středu): fontána, trůn, pokladnice.
+  - `rows:[…]` = řady: `along:'path'` (domy podél ulic: `step,gap,side,skip`), `line:[x1,y1,x2,y2]` (+`mirror`), `arc:{x,y,r,n,a0,a1,sq}` (kruh praporů, svíček), `fill:{step,jit,out,in,box,p}` (čtvrť mřížkou, `out` = jen mimo střed), `inzone:1` (jen v zóně); `light`, `lightEvery`.
+  - `pathTurn` (výchozí .7) = jak moc se cesty kroutí; .2 = rovné ulice města.
+  - Pravidla: **střed (~150 px) nech volný** pro boj, hustotu dávej ven; dekor v zemi je tmavší než nepřátelé (zlaté pozadí × zlatí nepřátelé = neviditelní); rekvizity jsou jen kresba, nebrání pohybu.
+  - Kontrola: `node tests/tools/mapfull.js mapa,mapa prefix` (celá mapa naráz) + `cNshots.js` (pohled z běhu) + `heavy.js off.html mapa 4` (výkon, srovnej s `doly`). Vzor: mapy kapitoly IX v `MAPS` (město, mincovna, síň soch, pokladnice, trůnní sál).
 - **Mechaniky `KIT_MECH`** (`kit.mech:[{id,...}]`, víc najednou jde):
   - `slow` `{slow:.65, eslow:.75}` – zóna zpomaluje (ne letce, bossy a nepřátele se `zone:1`).
   - `strike` `{every:3 (takty), bossEvery, from:40 (s), warn:1, r:30, n:1, dmg:14, pct:.12, edmg:60, col, leave:'magma'|'puddle', slow, tip, src}` – kruh pod hrdinou, za takt bouchne.

diff --git a/KAMPAN.md b/KAMPAN.md
@@ -162,6 +162,8 @@ Paleta `C9G/C9W/C9T/C9P/C9Z/C9B` (zlato, temně rudá), rekvizity `c9_*`. Hudba:
 Nepřátelé: `gilded` Pozlacený (grunt), `taxman` Výběrčí (fast, `touch:'steal'` krade 3 mince, vrátí po smrti), `alchem` Alchymista (ranged3), `mimic` Mimik (charger); `statue` jen z mechaniky (XP jen 2, jinak by stojící sochy byly farma zkušeností). Bossové: usurer, mintmaster, gknight, dragon, herald (finále). Věže `gmirror` Zrcadlo (odemkne predmesti; u oka 3 cíle ×2) a `mint` Lis (mincovna). Set `gold` Šat zlatého dvora (armor, ring, helm, boots; 2 = zlato +10 % a poškození +6 %; 4 = Zlatý déšť `lg.sg4`). Legendárka `midas` Midasova rukavice (každý 12. zabitý vybuchne). Hledaný `treasurer` Pokladník. Mistrovství `herald` Poslední slovo. Testy: `chapcheck.js c9`, `c9shots.js`, boti se vyhýbají oku a lisům (`hraci.js`).
 **Čísla:** ladění dalo vysoké HP (predmesti 125, sochy 105, pokladnice 188, dvur 94; mincovna 29, protože lisy berou nepřátelům půlku zdraví) – oko, sochy a poklad bez vysokého HP nestačí (zezlátlí nepřátelé dávají víc XP, poklad sílí). Prvotní verze měla 2× XP za zezlátnutí, plné XP ze soch a +8 % za poklad a mapy na HP skoro nereagovaly; po zmírnění (1,3× XP, socha XP 2, poklad +5 % max 6×) ladění konvergovalo. Kontrola schodu stejným účtem (UCET=7): Zahrada světla 25 % → Předměstí 6 % = zeď funguje.
 
+**Vzhled (11o):** mapy IX stojí na `kit.decor`/`set`/`rows` – Předměstí: rovné dlážděné ulice (`pathTurn` .22), domy podél ulic, fontána a mozaika na náměstí, trhy ve čtvrtích; Mincovna: koleje, výstražné pruhy, řady lisů a beden, pece u zdí; Síň soch: koberce do kříže, uličky podstavců se svícemi, les sloupů; Pokladnice: tři hromady pokladu (oblouky truhel, korun, drahokamů); Zlatý dvůr: mozaika, koberce, trůn, kruh praporů a svící. Celá mapa: `tests/tools/mapfull.js`.
+
 ## Zbývá / nápady
 - **Plán příběhu aktů I a II (kapitoly VIII–XX, boss aktu Aurel): `docs/PRIBEH.md`** (návrh 11. 11., čeká na schválení).
 - Kapitola IX hotová (11n). Další: X Korunované slunce (finále aktu I, boss Aurel ve 4 fázích, Paladin zdarma – viz `docs/PRIBEH.md`). Kapitola VII zatím nic do `FEATS` nepřidává. **Odložený nápad** (uživatel 11. 11.: nemazat, jen teď nedělat): Síň bossů = vybraná kapitola, všech 5 bossů za sebou bez vln, odměna jen za první dokončení.

diff --git a/CLAUDE.md b/CLAUDE.md
@@ -87,7 +87,8 @@ Uživatel střídá víc Claude účtů. Paměť ani historie chatů se mezi nim
 - 10b: `#combo` top `calc(100px + var(--sat))` – na iPhonech s výřezem dřív vjížděl do tlačítka pauzy (pevných 100 px); teď je pod lištou XP, ověřeno SE/15/Max, poušť s krystalem a bossem, kombo ×1240.
 - Pravidla: celý audit jen na požádání, po změně rychlý test v dotčené oblasti; vizuální změny vždy prohlédnout (CZ i EN, malý iPhone); Novinky v hezkém formátu s ikonami.
 
-## Aktuální stav (verze 11n, 11. 11. 2026, vše na main, Pages nasazené)
+## Aktuální stav (verze 11o, 11. 11. 2026, vše na main, Pages nasazené)
+- **11o návrh map**: stavebnice umí `kit.decor`/`set`/`rows`/`pathTurn` (ulice, řady, památky, mozaiky); mapy IX předělané. **Nová kapitola staví mapy tímhle** (skill `nova-kapitola` „Návrh mapy“, kontrola `mapfull.js`).
 - **11n kapitola IX Zlatá říše** (zeď, bez hrdiny, mazlíček Straka `magpie` s `ch:'c9'`; mechaniky `gaze`, `press`, `statues`, `greed`; zezlátnutí `gildEnemy`; Herold vysloví Aurela ve 2. fázi; `KAMPAN.md`). Další: kapitola X (finále aktu I, Aurel, Paladin zdarma).
 - **11m pečetě zbraní** (`save.seal`, `openSeals`, `sealWhy`: min. 8 zbraní, žádná zbraň v nabídce bez fúze) a **8 nových fúzí** pro zbraně hrdinů. **Pravidlo: každá nová zbraň (i zbraň nového hrdiny) musí mít aspoň jednu fúzi** se základní zbraní, jinak ji pečetě nemají čím hlídat. **Rozhodnuto 11. 11.: méně hrdinů** – IX bez hrdiny (místo něj mazlíček Straka), X Paladin zdarma za Aurela, akt II jen 3 hrdinové (XI, XV, XX) + Probuzení stávajících hrdinů; kapitoly bez hrdiny dávají mazlíčka. Podrobnosti `docs/PRIBEH.md` „Hrdinové, zbraně a odměny kapitol“.
 - **Příběh aktů: `docs/PRIBEH.md`** (akt = 10 kapitol; akt I končí kapitolou X a bossem Aurelem). 11k: červená nit (zlaté oko, střepy) v `STORY` I–VII, `bridgeEye` nad finále, Kronika ve Sbírce. **Nové kapitoly drží linku z PRIBEH.md** (texty `STORY`/`BRIDGE`, hlášky bossů; závazné opravy z kontroly příběhu jsou na konci PRIBEH.md: odhalení Aurela v boji v IX, závěrečný text X).

diff --git a/docs/HISTORIE.md b/docs/HISTORIE.md
@@ -370,3 +370,8 @@ Survivors základ, 4 hrdinové, 3 mapy, věže + Stavitel, krystal v poušti, te
 
 ## 11n (11. 11. 2026) – kapitola IX Zlatá říše (zeď)
 - 5 map (predmesti, mincovna, sochy, pokladnice, dvur), mechaniky stavebnice `gaze`, `press`, `statues`, `greed`, zezlátnutí nepřátel (`gildEnemy`). Nepřátelé gilded, taxman (`touch:'steal'`), alchem, mimic, statue; bossové usurer, mintmaster, gknight, dragon, herald (odhalení Aurela ve 2. fázi). Bez hrdiny, mazlíček Straka (`magpie`, v truhle až od kapitoly IX). Věže Zrcadlo a Lis, set `gold`, legendárka `midas`, hledaný `treasurer`, mistrovství `herald`, hudební styl `gold`, most `stairs`.
+
+## 11o (11. 11. 2026) – tvář map Zlaté říše
+- Uživatel: „design mapy je celkem nuda, propracuj to a mysli i do budoucna“. Stavebnice map dostala návrhové nástroje: `kit.decor` (`kitDecor`: koberce, mozaiky, koleje, výstražné pruhy, lem dlažby, drť), `kit.set` (památky na přesném místě), `kit.rows` (řady podél cest, čáry, oblouky, čtvrti mřížkou, jen v zóně), `kit.pathTurn` (rovné ulice). Rekvizity jsou dál jen kresba.
+- 11 nových rekvizit IX (fontána, stánek, zlatý strom, pec, bedna, podstavec, svícen, drahokamy, koruna, trůn, prapor). Předělané všechny mapy IX: Předměstí = město s ulicemi a náměstím, Mincovna = dílna s kolejemi, Síň soch = koberce do kříže a les sloupů, Pokladnice = hromady pokladu, Zlatý dvůr = trůnní sál.
+- Nový test `tests/tools/mapfull.js` (celá mapa naráz). Výkon `heavy.js` (4× CPU) Předměstí 12 fps vs. Doly 9 fps. Postup ve skillu `nova-kapitola` „Návrh mapy“.
